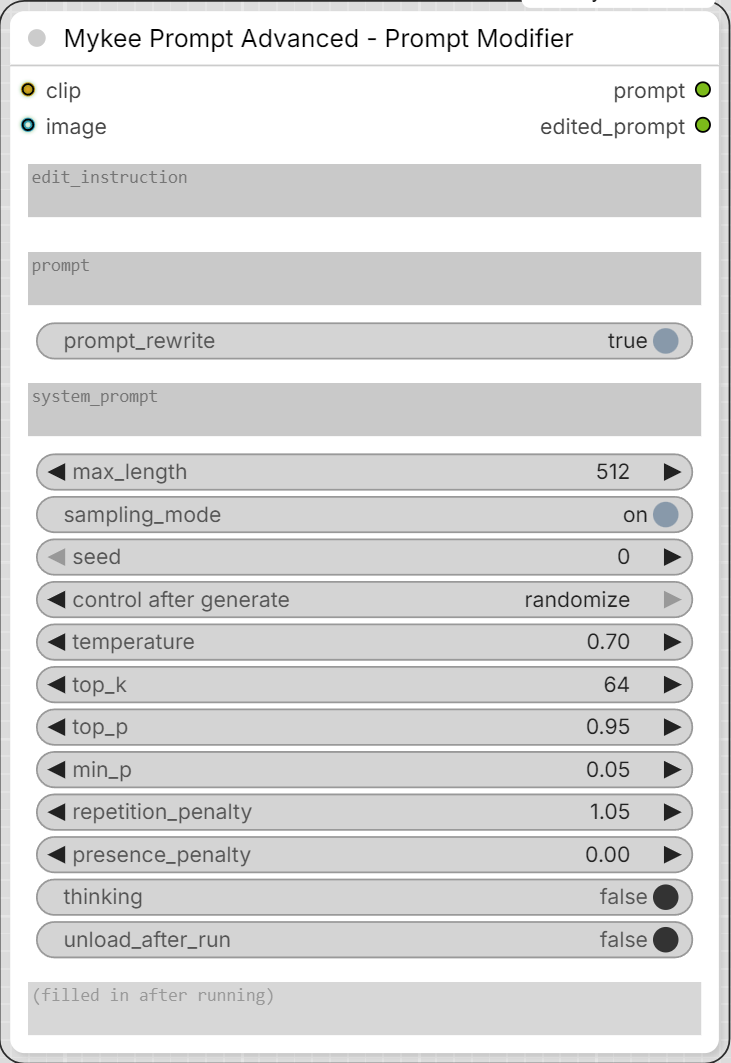
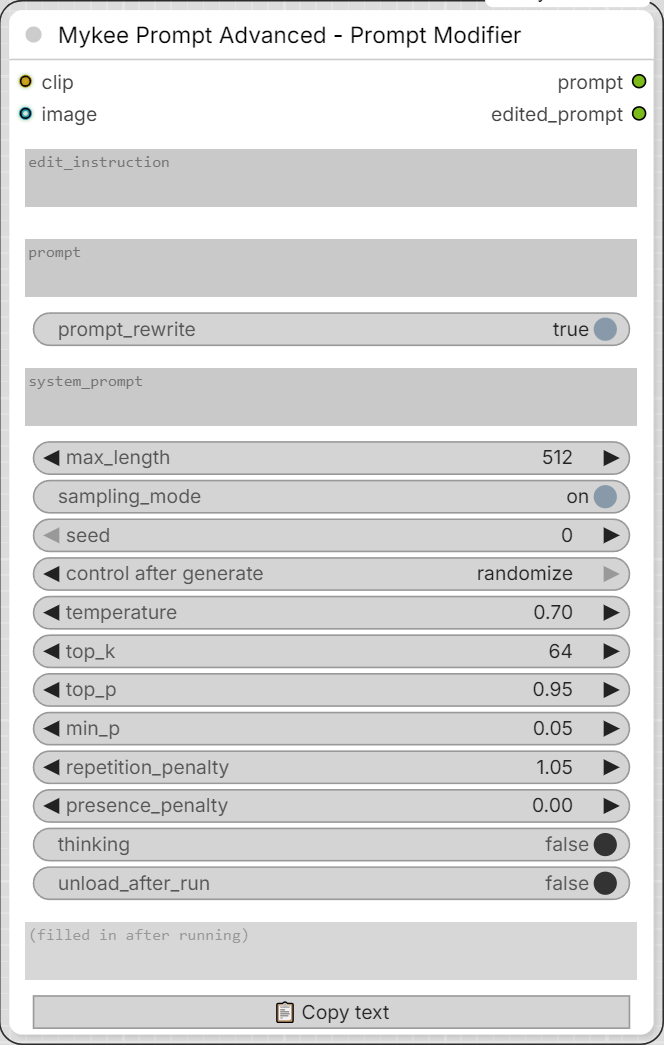
Add Copy Text button for Prompt nodes

diff --git a/web/mykee_prompt_advanced_ultimate.js b/web/mykee_prompt_advanced_ultimate.js
@@ -3,6 +3,11 @@ import { ComfyWidgets } from "../../scripts/widgets.js";
 
 const NODE_NAME = "MykeePromptAdvancedUltimate";
 const DISPLAY_WIDGET_NAMES = ["response_1_display", "response_2_display", "tags_1_display"];
+const COPY_LABELS = {
+    response_1_display: "📋 Copy response 1",
+    response_2_display: "📋 Copy response 2",
+    tags_1_display: "📋 Copy tags 1",
+};
 
 // The second stage's seed_control (fixed/increment/decrement/randomize)
 // is computed in Python after each run and sent back through this same
@@ -55,6 +60,93 @@ function restoreDisplay(node, names) {
     }
 }
 
+
+// ---- Copy button -----------------------------------------------------------
+// A button under a display widget that puts its text on the clipboard.
+// navigator.clipboard only exists in secure contexts (https / localhost), so
+// ComfyUI opened over a plain-http LAN address falls back to execCommand.
+async function copyToClipboard(text) {
+    try {
+        if (navigator.clipboard?.writeText) {
+            await navigator.clipboard.writeText(text);
+            return true;
+        }
+    } catch {
+        /* fall through to the legacy path */
+    }
+    const area = document.createElement("textarea");
+    area.value = text;
+    area.style.cssText = "position:fixed;left:-9999px;top:0;opacity:0;";
+    document.body.appendChild(area);
+    area.select();
+    let ok = false;
+    try {
+        ok = document.execCommand("copy");
+    } catch {
+        ok = false;
+    }
+    area.remove();
+    return ok;
+}
+
+function copyToast(severity, detail) {
+    if (app.extensionManager?.toast?.add) {
+        app.extensionManager.toast.add({ severity, summary: "Mykee", detail, life: 2500 });
+    }
+}
+
+function addCopyButton(node, displayName, label) {
+    const btn = node.addWidget("button", label, null, async () => {
+        const display = node.widgets?.find((w) => w.name === displayName);
+        const text = String(display?.inputEl?.value ?? display?.value ?? "");
+        if (!text.trim()) {
+            copyToast("info", "Nothing to copy yet - run the node first.");
+            return;
+        }
+        const ok = await copyToClipboard(text);
+        copyToast(ok ? "success" : "error", ok ? "Text copied to the clipboard." : "Copy failed - select the text and copy it manually.");
+        if (ok) {
+            btn.label = "✅ Copied!";
+            node.setDirtyCanvas?.(true, true);
+            setTimeout(() => {
+                btn.label = label;
+                node.setDirtyCanvas?.(true, true);
+            }, 1200);
+        }
+    });
+    btn.serialize = false;
+    return btn;
+}
+
+
+// Plain litegraph buttons only get the canvas' crosshair - show the pointing
+// hand while the mouse is over one of this node's buttons.
+function updateButtonCursor(node) {
+    const canvasEl = app.canvas && app.canvas.canvas;
+    if (!canvasEl) return;
+    const rowH = (window.LiteGraph && window.LiteGraph.NODE_WIDGET_HEIGHT) || 20;
+    const gm = app.canvas.graph_mouse;
+    let hovering = false;
+    if (gm && node.pos && node.widgets) {
+        const localX = gm[0] - node.pos[0];
+        const localY = gm[1] - node.pos[1];
+        for (const w of node.widgets) {
+            if (w.type !== "button" || typeof w.last_y !== "number") continue;
+            if (localX >= 15 && localX <= node.size[0] - 15 && localY >= w.last_y && localY <= w.last_y + rowH) {
+                hovering = true;
+                break;
+            }
+        }
+    }
+    if (hovering && !node._mykeeButtonCursorSet) {
+        canvasEl.style.cursor = "pointer";
+        node._mykeeButtonCursorSet = true;
+    } else if (!hovering && node._mykeeButtonCursorSet) {
+        canvasEl.style.cursor = "";
+        node._mykeeButtonCursorSet = false;
+    }
+}
+
 app.registerExtension({
     name: "Mykee.PromptAdvancedUltimate",
     async beforeRegisterNodeDef(nodeType, nodeData, app) {
@@ -73,6 +165,13 @@ app.registerExtension({
         // hit the position-shift issue described above for second_seed -
         // that issue is specifically about inserting a widget AFTER
         // creation, mid-way through the existing list.
+        const onDrawForeground = nodeType.prototype.onDrawForeground;
+        nodeType.prototype.onDrawForeground = function () {
+            const ret = onDrawForeground?.apply(this, arguments);
+            updateButtonCursor(this);
+            return ret;
+        };
+
         const onNodeCreated = nodeType.prototype.onNodeCreated;
         nodeType.prototype.onNodeCreated = function () {
             const ret = onNodeCreated ? onNodeCreated.apply(this, arguments) : undefined;
@@ -87,6 +186,7 @@ app.registerExtension({
                     w.inputEl.placeholder = "(filled in after running)";
                     w.inputEl.style.opacity = "0.75";
                 }
+                addCopyButton(this, name, COPY_LABELS[name]);
             }
 
             return ret;

diff --git a/web/mykee_prompt_clarity.js b/web/mykee_prompt_clarity.js
@@ -33,10 +33,104 @@ function restoreDisplay(node, names) {
     }
 }
 
+
+// ---- Copy button -----------------------------------------------------------
+// A button under a display widget that puts its text on the clipboard.
+// navigator.clipboard only exists in secure contexts (https / localhost), so
+// ComfyUI opened over a plain-http LAN address falls back to execCommand.
+async function copyToClipboard(text) {
+    try {
+        if (navigator.clipboard?.writeText) {
+            await navigator.clipboard.writeText(text);
+            return true;
+        }
+    } catch {
+        /* fall through to the legacy path */
+    }
+    const area = document.createElement("textarea");
+    area.value = text;
+    area.style.cssText = "position:fixed;left:-9999px;top:0;opacity:0;";
+    document.body.appendChild(area);
+    area.select();
+    let ok = false;
+    try {
+        ok = document.execCommand("copy");
+    } catch {
+        ok = false;
+    }
+    area.remove();
+    return ok;
+}
+
+function copyToast(severity, detail) {
+    if (app.extensionManager?.toast?.add) {
+        app.extensionManager.toast.add({ severity, summary: "Mykee", detail, life: 2500 });
+    }
+}
+
+function addCopyButton(node, displayName, label) {
+    const btn = node.addWidget("button", label, null, async () => {
+        const display = node.widgets?.find((w) => w.name === displayName);
+        const text = String(display?.inputEl?.value ?? display?.value ?? "");
+        if (!text.trim()) {
+            copyToast("info", "Nothing to copy yet - run the node first.");
+            return;
+        }
+        const ok = await copyToClipboard(text);
+        copyToast(ok ? "success" : "error", ok ? "Text copied to the clipboard." : "Copy failed - select the text and copy it manually.");
+        if (ok) {
+            btn.label = "✅ Copied!";
+            node.setDirtyCanvas?.(true, true);
+            setTimeout(() => {
+                btn.label = label;
+                node.setDirtyCanvas?.(true, true);
+            }, 1200);
+        }
+    });
+    btn.serialize = false;
+    return btn;
+}
+
+
+// Plain litegraph buttons only get the canvas' crosshair - show the pointing
+// hand while the mouse is over one of this node's buttons.
+function updateButtonCursor(node) {
+    const canvasEl = app.canvas && app.canvas.canvas;
+    if (!canvasEl) return;
+    const rowH = (window.LiteGraph && window.LiteGraph.NODE_WIDGET_HEIGHT) || 20;
+    const gm = app.canvas.graph_mouse;
+    let hovering = false;
+    if (gm && node.pos && node.widgets) {
+        const localX = gm[0] - node.pos[0];
+        const localY = gm[1] - node.pos[1];
+        for (const w of node.widgets) {
+            if (w.type !== "button" || typeof w.last_y !== "number") continue;
+            if (localX >= 15 && localX <= node.size[0] - 15 && localY >= w.last_y && localY <= w.last_y + rowH) {
+                hovering = true;
+                break;
+            }
+        }
+    }
+    if (hovering && !node._mykeeButtonCursorSet) {
+        canvasEl.style.cursor = "pointer";
+        node._mykeeButtonCursorSet = true;
+    } else if (!hovering && node._mykeeButtonCursorSet) {
+        canvasEl.style.cursor = "";
+        node._mykeeButtonCursorSet = false;
+    }
+}
+
 app.registerExtension({
     name: "Mykee.PromptAdvanced",
     async beforeRegisterNodeDef(nodeType, nodeData, app) {
         if (nodeData.name !== NODE_NAME) return;
+
+        const onDrawForeground = nodeType.prototype.onDrawForeground;
+        nodeType.prototype.onDrawForeground = function () {
+            const ret = onDrawForeground?.apply(this, arguments);
+            updateButtonCursor(this);
+            return ret;
+        };
 
         const onNodeCreated = nodeType.prototype.onNodeCreated;
         nodeType.prototype.onNodeCreated = function () {
@@ -56,6 +150,7 @@ app.registerExtension({
                 w.inputEl.placeholder = "(filled in after running)";
                 w.inputEl.style.opacity = "0.75";
             }
+            addCopyButton(this, DISPLAY_NAME, "📋 Copy text");
 
             return ret;
         };

diff --git a/web/mykee_prompt_modifier.js b/web/mykee_prompt_modifier.js
@@ -33,10 +33,104 @@ function restoreDisplay(node, names) {
     }
 }
 
+
+// ---- Copy button -----------------------------------------------------------
+// A button under a display widget that puts its text on the clipboard.
+// navigator.clipboard only exists in secure contexts (https / localhost), so
+// ComfyUI opened over a plain-http LAN address falls back to execCommand.
+async function copyToClipboard(text) {
+    try {
+        if (navigator.clipboard?.writeText) {
+            await navigator.clipboard.writeText(text);
+            return true;
+        }
+    } catch {
+        /* fall through to the legacy path */
+    }
+    const area = document.createElement("textarea");
+    area.value = text;
+    area.style.cssText = "position:fixed;left:-9999px;top:0;opacity:0;";
+    document.body.appendChild(area);
+    area.select();
+    let ok = false;
+    try {
+        ok = document.execCommand("copy");
+    } catch {
+        ok = false;
+    }
+    area.remove();
+    return ok;
+}
+
+function copyToast(severity, detail) {
+    if (app.extensionManager?.toast?.add) {
+        app.extensionManager.toast.add({ severity, summary: "Mykee", detail, life: 2500 });
+    }
+}
+
+function addCopyButton(node, displayName, label) {
+    const btn = node.addWidget("button", label, null, async () => {
+        const display = node.widgets?.find((w) => w.name === displayName);
+        const text = String(display?.inputEl?.value ?? display?.value ?? "");
+        if (!text.trim()) {
+            copyToast("info", "Nothing to copy yet - run the node first.");
+            return;
+        }
+        const ok = await copyToClipboard(text);
+        copyToast(ok ? "success" : "error", ok ? "Text copied to the clipboard." : "Copy failed - select the text and copy it manually.");
+        if (ok) {
+            btn.label = "✅ Copied!";
+            node.setDirtyCanvas?.(true, true);
+            setTimeout(() => {
+                btn.label = label;
+                node.setDirtyCanvas?.(true, true);
+            }, 1200);
+        }
+    });
+    btn.serialize = false;
+    return btn;
+}
+
+
+// Plain litegraph buttons only get the canvas' crosshair - show the pointing
+// hand while the mouse is over one of this node's buttons.
+function updateButtonCursor(node) {
+    const canvasEl = app.canvas && app.canvas.canvas;
+    if (!canvasEl) return;
+    const rowH = (window.LiteGraph && window.LiteGraph.NODE_WIDGET_HEIGHT) || 20;
+    const gm = app.canvas.graph_mouse;
+    let hovering = false;
+    if (gm && node.pos && node.widgets) {
+        const localX = gm[0] - node.pos[0];
+        const localY = gm[1] - node.pos[1];
+        for (const w of node.widgets) {
+            if (w.type !== "button" || typeof w.last_y !== "number") continue;
+            if (localX >= 15 && localX <= node.size[0] - 15 && localY >= w.last_y && localY <= w.last_y + rowH) {
+                hovering = true;
+                break;
+            }
+        }
+    }
+    if (hovering && !node._mykeeButtonCursorSet) {
+        canvasEl.style.cursor = "pointer";
+        node._mykeeButtonCursorSet = true;
+    } else if (!hovering && node._mykeeButtonCursorSet) {
+        canvasEl.style.cursor = "";
+        node._mykeeButtonCursorSet = false;
+    }
+}
+
 app.registerExtension({
     name: "Mykee.PromptModifier",
     async beforeRegisterNodeDef(nodeType, nodeData, app) {
         if (nodeData.name !== NODE_NAME) return;
+
+        const onDrawForeground = nodeType.prototype.onDrawForeground;
+        nodeType.prototype.onDrawForeground = function () {
+            const ret = onDrawForeground?.apply(this, arguments);
+            updateButtonCursor(this);
+            return ret;
+        };
 
         const onNodeCreated = nodeType.prototype.onNodeCreated;
         nodeType.prototype.onNodeCreated = function () {
@@ -61,6 +155,7 @@ app.registerExtension({
                 w.inputEl.placeholder = "(filled in after running)";
                 w.inputEl.style.opacity = "0.75";
             }
+            addCopyButton(this, DISPLAY_NAME, "📋 Copy text");
 
             return ret;
         };
